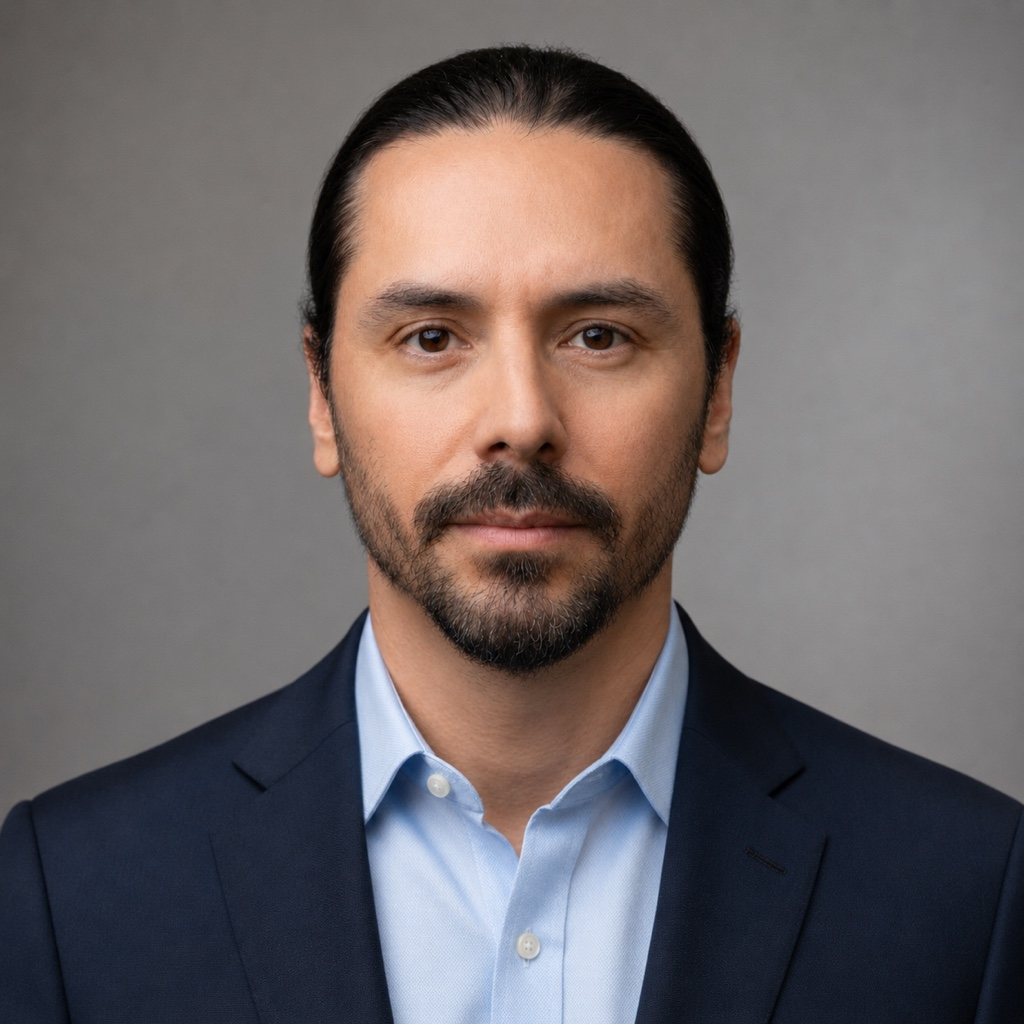
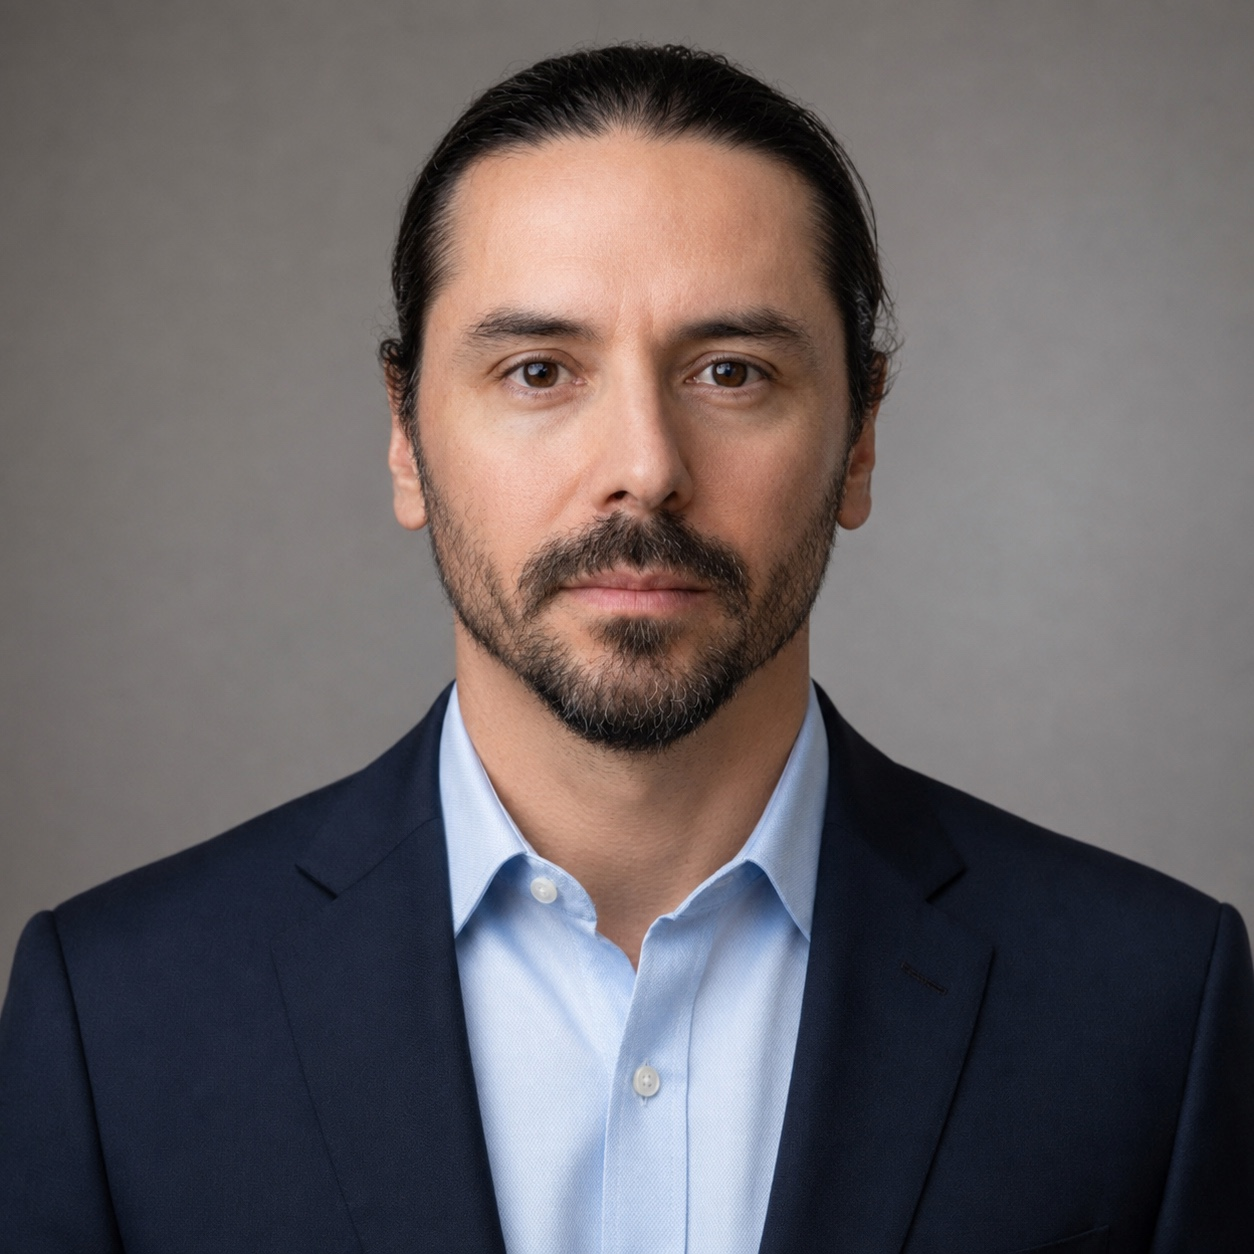
Update profile photo and demo links

diff --git a/index.html b/index.html
@@ -345,6 +345,7 @@
                     <div><strong>Systèmes vocaux</strong><span>Voix enregistrées et locales dans plusieurs langues</span></div>
                     <div><strong>Progrès synchronisé</strong><span>Réglages, niveau et historique entre les séances</span></div>
                   </div>
+                  <a class="text-link" href="https://phraselang.com/demo" target="_blank" rel="noopener">Voir la démo en ligne</a>
                 </div>
                 <div class="product-gallery" aria-label="Écrans du produit PhraseLang">
                   <figure>
@@ -445,7 +446,7 @@
             <p class="eyebrow">À propos</p>
             <h2 id="titre-a-propos">Philippe Tremblay</h2>
             <figure class="about-portrait">
-              <img src="./images/profile.jpg?v=20260804b" width="1024" height="1024" loading="lazy" alt="Portrait de Philippe Tremblay">
+              <img src="./images/profile.jpg?v=20260804c" width="1254" height="1254" loading="lazy" alt="Portrait de Philippe Tremblay">
             </figure>
           </div>
           <div class="about-body" data-reveal>

diff --git a/en/index.html b/en/index.html
@@ -346,6 +346,7 @@
                     <div><strong>Speech systems</strong><span>Recorded and on-device voices across languages</span></div>
                     <div><strong>Synced progress</strong><span>Settings, level, and review history across sessions</span></div>
                   </div>
+                  <a class="text-link" href="https://phraselang.com/demo" target="_blank" rel="noopener">View live demo</a>
                 </div>
                 <div class="product-gallery" aria-label="PhraseLang product screens">
                   <figure>
@@ -446,7 +447,7 @@
             <p class="eyebrow">About</p>
             <h2 id="about-title">Philippe Tremblay</h2>
             <figure class="about-portrait">
-              <img src="../images/profile.jpg?v=20260804b" width="1024" height="1024" loading="lazy" alt="Portrait of Philippe Tremblay">
+              <img src="../images/profile.jpg?v=20260804c" width="1254" height="1254" loading="lazy" alt="Portrait of Philippe Tremblay">
             </figure>
           </div>
           <div class="about-body" data-reveal>
